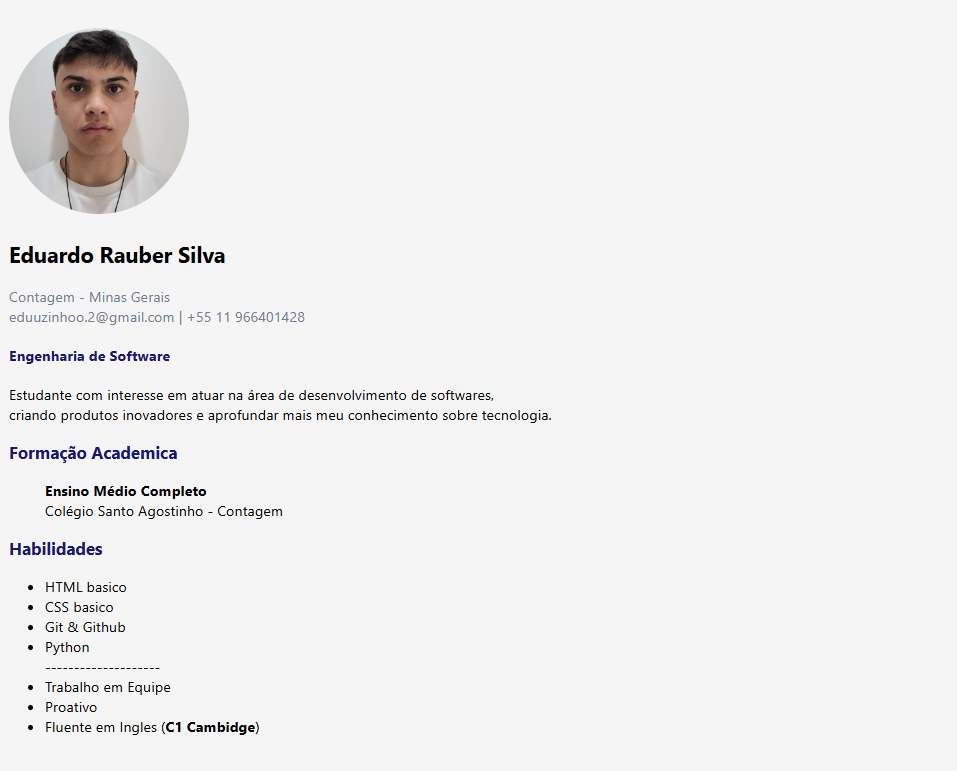
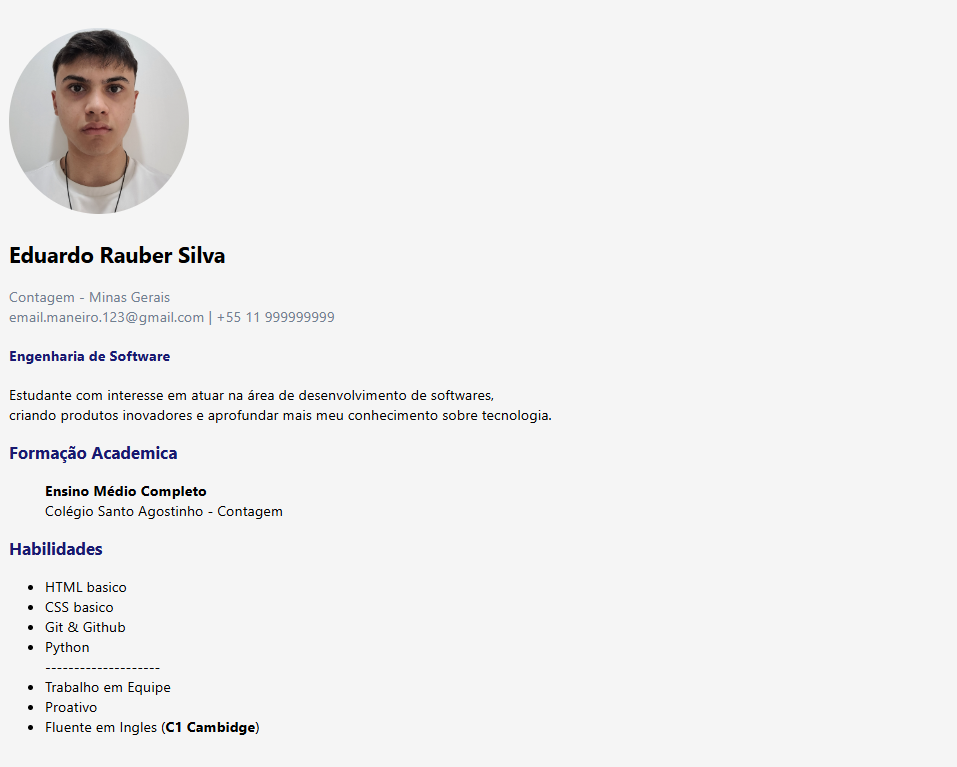
Remoção de dados sensiveis

diff --git a/public/index.html b/public/index.html
@@ -12,7 +12,7 @@
             <h1><img src="Foto minha.jpg" width="200"></h1>
             <h2>Eduardo Rauber Silva</h2> 
             <p>Contagem - Minas Gerais <br>
-            eduuzinhoo.2@gmail.com | +55 11 966401428</p>
+            email.maneiro.123@gmail.com | +55 11 999999999</p>
             <h4>Engenharia de Software</h4>
         </header>
 

diff --git a/README.md b/README.md
@@ -6,4 +6,4 @@
 
 ## Print da tela da página criada (Curriculum Vitae)
 
-![alt text](curriculo.png)
+![alt text](Curriculo.png)
